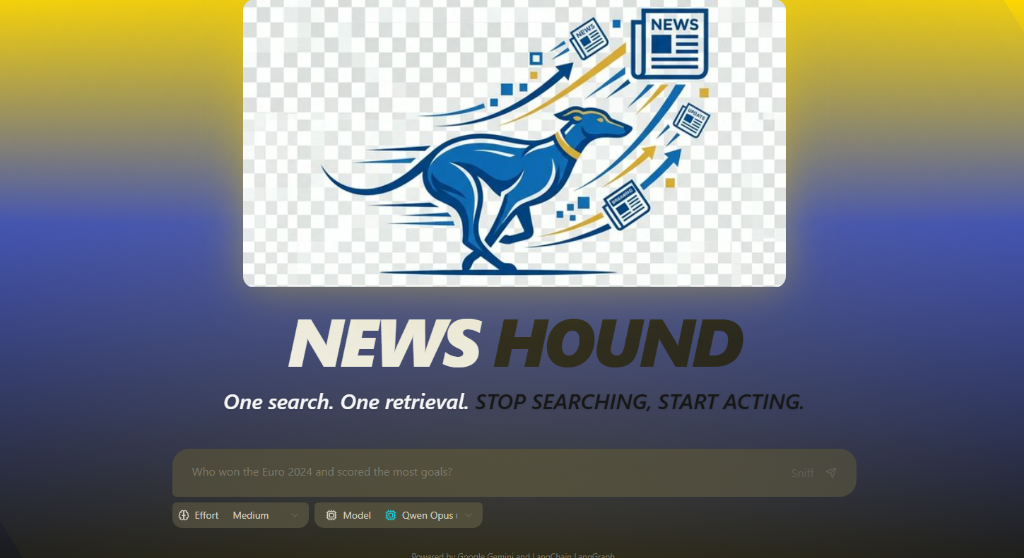
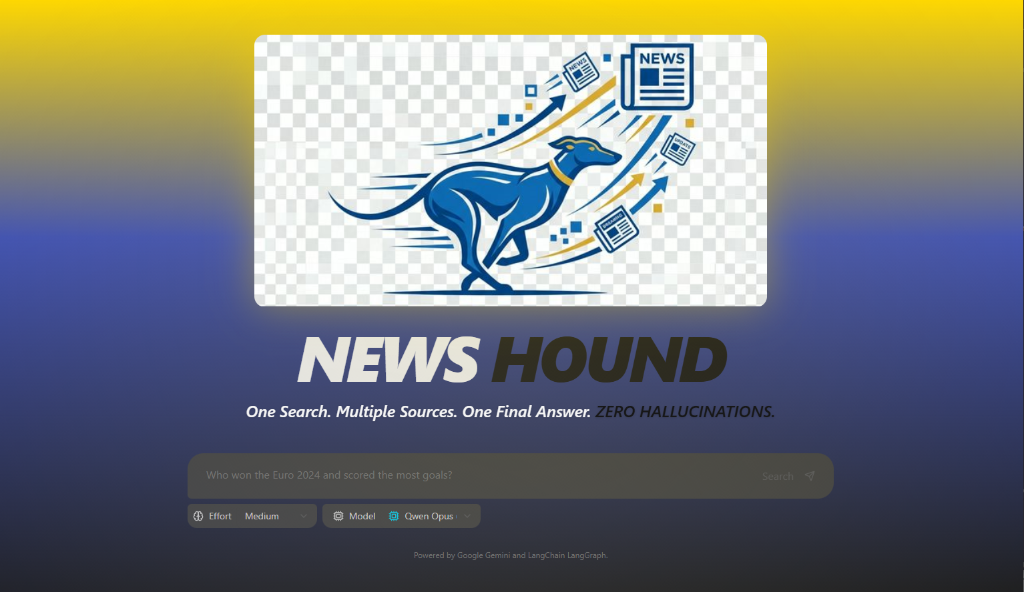
Enhanced Slick UI

diff --git a/frontend/src/components/WelcomeScreen.tsx b/frontend/src/components/WelcomeScreen.tsx
@@ -27,8 +27,8 @@ export const WelcomeScreen: React.FC<WelcomeScreenProps> = ({
       <h1 className="text-6xl md:text-8xl font-black text-neutral-100 mb-4 tracking-tighter uppercase italic">
         News <span className="text-[var(--primary)]">Hound</span>
       </h1>
-      <p className="text-2xl md:text-3xl text-neutral-100 font-bold max-w-4xl mx-auto leading-relaxed drop-shadow-sm italic">
-        One search. One retrieval. <span className="text-[var(--primary)] uppercase">Stop searching, start acting.</span>
+      <p className="text-lg md:text-xl lg:text-2xl text-neutral-100 font-bold w-full max-w-none mx-auto leading-relaxed drop-shadow-sm italic whitespace-nowrap">
+        One Search. Multiple Sources. One Final Answer. <span className="text-[var(--primary)] uppercase">Zero Hallucinations.</span>
       </p>
     </div>
     <div className="w-full mt-4">

diff --git a/README.md b/README.md
@@ -3,6 +3,8 @@
 ![News Hound Hero View](docs/hero.png)
 
 ## Overview
+**One Search. Multiple Sources. One Final Answer. Zero Hallucinations.**
+
 This is a **high-performance AI search agent** that orchestrates multiple search engines to deliver synthesized, accurate answers. Think of it as a "Google AI Overviews" engine built for developers, optimized for speed and zero hallucination.
 
 You can plug this agent into:
@@ -53,7 +55,7 @@ News_Hound/
 
 ## How It Works
 
-![News Hound Workflow](docs/agent.png)
+<img src="docs/agent.png" width="500" alt="News Hound Workflow" />
 
 1. **Query Generation**: LLM breaks down user question into 3 targeted sub-queries
 2. **Parallel Search**: All 3 search engines execute simultaneously on each query
